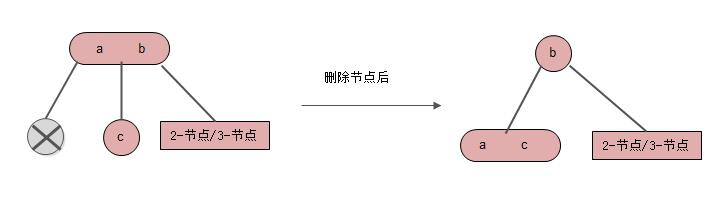
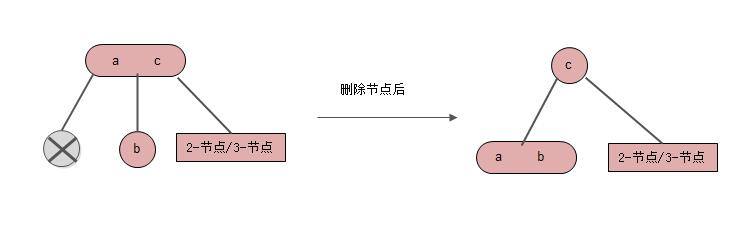
ff

diff --git a/_posts/data_structure/2018-05-20-data-structure_23tree.md b/_posts/data_structure/2018-05-20-data-structure_23tree.md
@@ -142,13 +142,33 @@ description: 数据结构之2-3树
 
 ![ds-23tree-delnode-1](https://ivanzz1001.github.io/records/assets/img/data_structure/ds_23tree_delnode_1.jpg)
 
+如上图，以关键字```a```、```c```构造一个```3-节点```，并将其作为b的左孩子
 
+
+* ```情形2```: 删除节点是左孩子，中间孩子是3-节点
+
+![ds-23tree-delnode-2](https://ivanzz1001.github.io/records/assets/img/data_structure/ds_23tree_delnode_2.jpg)
+
+
+* ```情形3```: 删除节点是中间节点， 右节点是2-节点
+
+
+* ```情形4```: 删除节点是中间节点， 右节点是3-节点
+
+* ```情形5```: 删除节点是右节点， 中间节点是2-节点
+
+* ```情形6```: 删除节点是右节点， 中间节点是3-节点
 
 
 
 <br />
 **(2) 叶节点的父节点是 2-节点**
 
+* ```情形1```: 删除节点是左节点，右节点是2-节点
+
+![ds-23tree-delnode-7](https://ivanzz1001.github.io/records/assets/img/data_structure/ds_23tree_delnode_7.jpg)
+
+上面删除节点后，把关键字```b```移动到其右孩子节点中。为了维持树的高度不变，把包含```b```的节点变为空节点。这时我们得到了包含空节点的树，我们需要删除该空节点。根据新的空节点的父节点的情况再分类进行处理，直到没有空节点。
 
 
 
